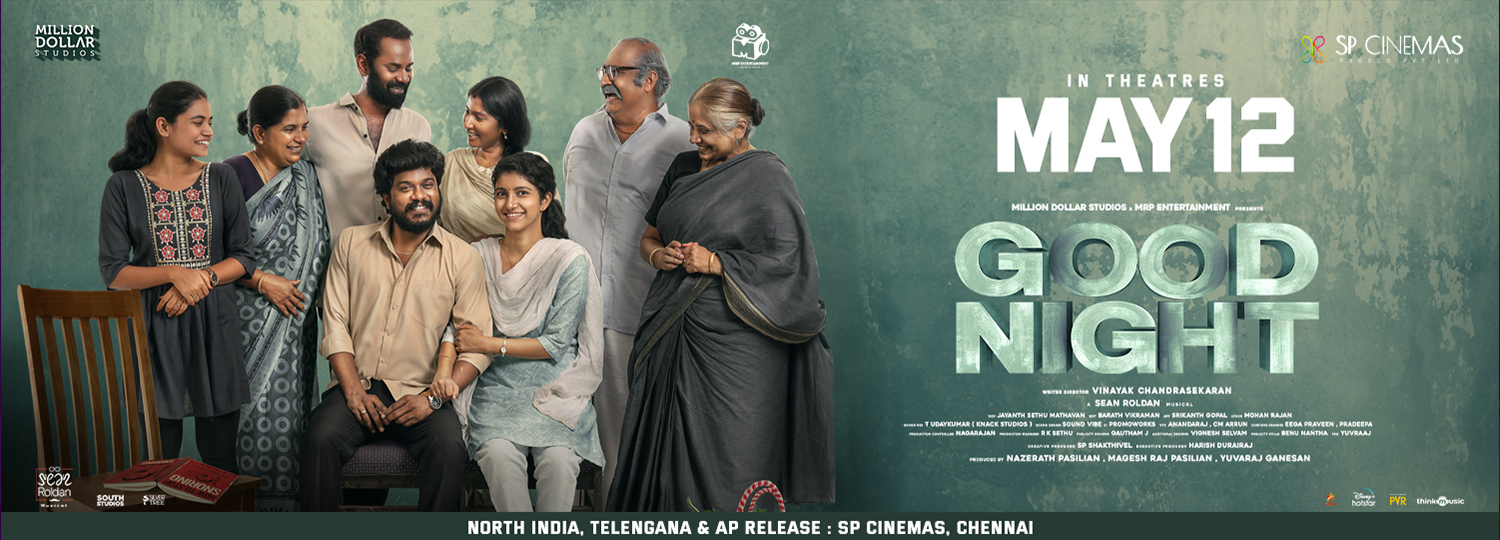
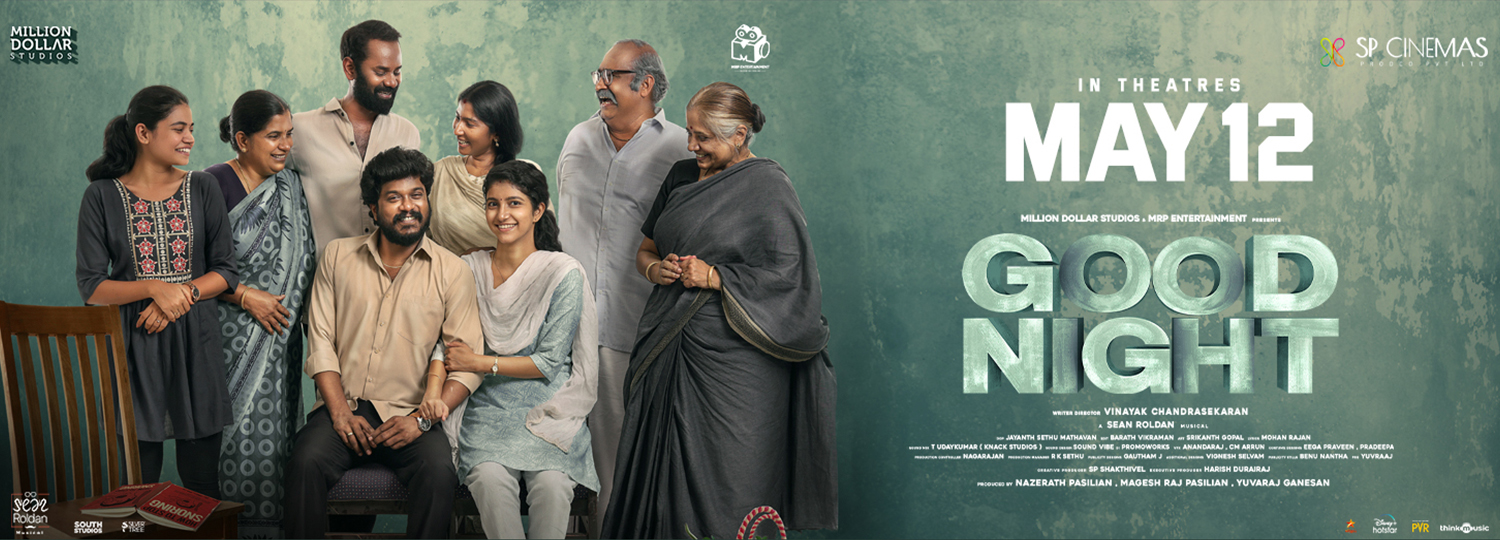
images update

diff --git a/index.html b/index.html
@@ -667,7 +667,7 @@
 
                                 <h3> Good Night</h3>
 
-                                <p> North India, Telengana & AP release <br> <strong>SP Cinemas  </strong> Chennai
+                                <p> North India, Kerala, Telengana & AP release <br> <strong>SP Cinemas  </strong> Chennai
                                 </p>
 
                             </a>
